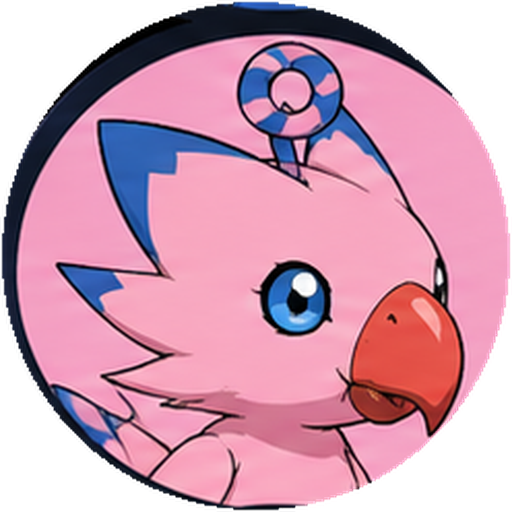
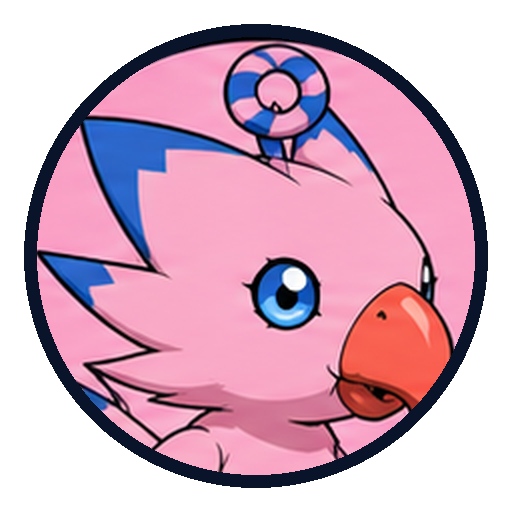
Jugador: ficha sobre el fondo del menú y iconos actualizados
La ficha usa la misma base de fondo que el menú principal, sin barra
superior y con bloques translúcidos. Los iconos de entrenador se
reemplazan por la versión nueva, sin la sombra negra del lateral.

Claude-Session: https://claude.ai/code/session_013YiTCwFqdV4qUpNhTX7biT

diff --git a/digibonk3d.html b/digibonk3d.html
@@ -1544,7 +1544,11 @@ body:has(.realhub) #hudTop{display:none!important}
 .realhub .real-arrow{display:block!important;margin-left:auto!important}
 .realhub .real-shine{position:absolute;inset:0;z-index:2;background:linear-gradient(100deg,transparent 35%,rgba(255,255,255,.45) 50%,transparent 65%);transform:translateX(-120%);animation:db-shine 3.2s ease-in-out infinite;pointer-events:none}
 @keyframes db-shine{0%,55%{transform:translateX(-120%)}100%{transform:translateX(120%)}}
-.picker-screen.pl4{display:block!important;overflow:auto!important;padding:14px 22px 30px!important}
+.realhub.pl4{position:absolute!important;inset:0!important;display:block!important;overflow:auto!important;height:auto!important;min-height:100%!important;background:transparent!important}
+.pl4-wrap{position:relative;z-index:2;max-width:1240px;margin:0 auto;padding:14px 22px 30px}
+body:has(.pl4) #topbar{display:none!important}
+.pl4-hero,.pl4-stat,.pl4-mission,.pl4-panel{background:rgba(10,16,38,.7)!important;backdrop-filter:blur(3px);border-color:#8eeeff40!important}
+.pl4-grid{align-items:start}
 .pl4-top{display:flex;align-items:center;gap:14px;margin-bottom:14px}
 .pl4-banner{flex:1;padding:9px 16px;border-radius:12px;background:linear-gradient(90deg,#e8585a,#ff8a6b);border:2px solid #ffd7c9;color:#fff;box-shadow:0 4px 0 #6b1d1d}
 .pl4-banner b{display:block;font-size:22px;font-weight:900;font-style:italic;text-shadow:1px 2px #5a1212}
@@ -1623,6 +1627,12 @@ body:has(.realhub) #hudTop{display:none!important}
 .cz-btn{appearance:none;border:0;border-radius:999px;padding:10px 26px;font:900 14px system-ui;color:#fff;background:#3a4560;cursor:pointer;box-shadow:0 3px 0 #111}
 .cz-btn.ok{background:linear-gradient(#5be07d,#2fa75a);box-shadow:0 3px 0 #145c2c}
 @media (max-width:640px){.cz-grid{grid-template-columns:repeat(3,minmax(0,1fr))}.cz-head{flex-direction:column;text-align:center}}
+.realhub.pl4 > .real-world{position:fixed!important;inset:0!important;z-index:0}
+.realhub.pl4{text-align:left}
+.pl4-grid{align-items:stretch!important}
+.pl4-panel h3,.pl4-mission h3{text-align:left}
+.pl4-mission .pf-bar{margin-top:2px}
+.pl4-mission small{text-align:center}
 </style>
 <script type="importmap">
 { "imports": { "three": "https://unpkg.com/three@0.160.0/build/three.module.js" } }
@@ -5028,7 +5038,7 @@ function showPlayer(){
   const specRows = SEASONS.adventure.chars.map(k => ({k, s: statsOf(k)})).filter(x => x.s.plays || x.s.kills).sort((a, b) => b.s.kills - a.s.kills).slice(0, 8).map(({k, s}) => `<div class="pl4-spec"><img src="${headUrl(spriteOf(k, false))}" alt=""><span><b>${CHARS[k].name}</b><small>${s.kills} bajas · ${s.plays} partidas</small></span></div>`).join('') || '<p class="pl4-empty">Juega con un Digimon para ver su especialidad.</p>';
   const pct2 = day.claimed ? 100 : pct;
   showOverlay(`
-    <div class="picker-screen player-screen pl4">
+    <main class="realhub pl4" aria-label="Ficha de entrenador"><div class="real-world" aria-hidden="true"><div class="rw-scenery"></div><video class="rw-video" autoplay muted loop playsinline preload="auto" disablepictureinpicture><source src="ui/menu_video.webm" type="video/webm"><source src="ui/menu_video.mp4" type="video/mp4"></video></div><div class="pl4-wrap">
       <header class="pl4-top"><button class="g-back" id="plBack">Esc · Volver</button>
         <div class="pl4-banner"><b>Ficha de entrenador</b><small>Tu tarjeta, tus estadísticas y tus logros</small></div></header>
       <section class="pl4-hero" id="tc">
@@ -5051,7 +5061,7 @@ function showPlayer(){
         <section class="pl4-panel pl4-wide"><h3>Especialidad por Digimon</h3><div class="pl4-specs">${specRows}</div></section>
 
       </div>
-    </div>`);
+    </div></main>`);
 
   document.getElementById('plBack').onclick = () => showSelect();
   document.getElementById('plChange').onclick = openCustomizer;
